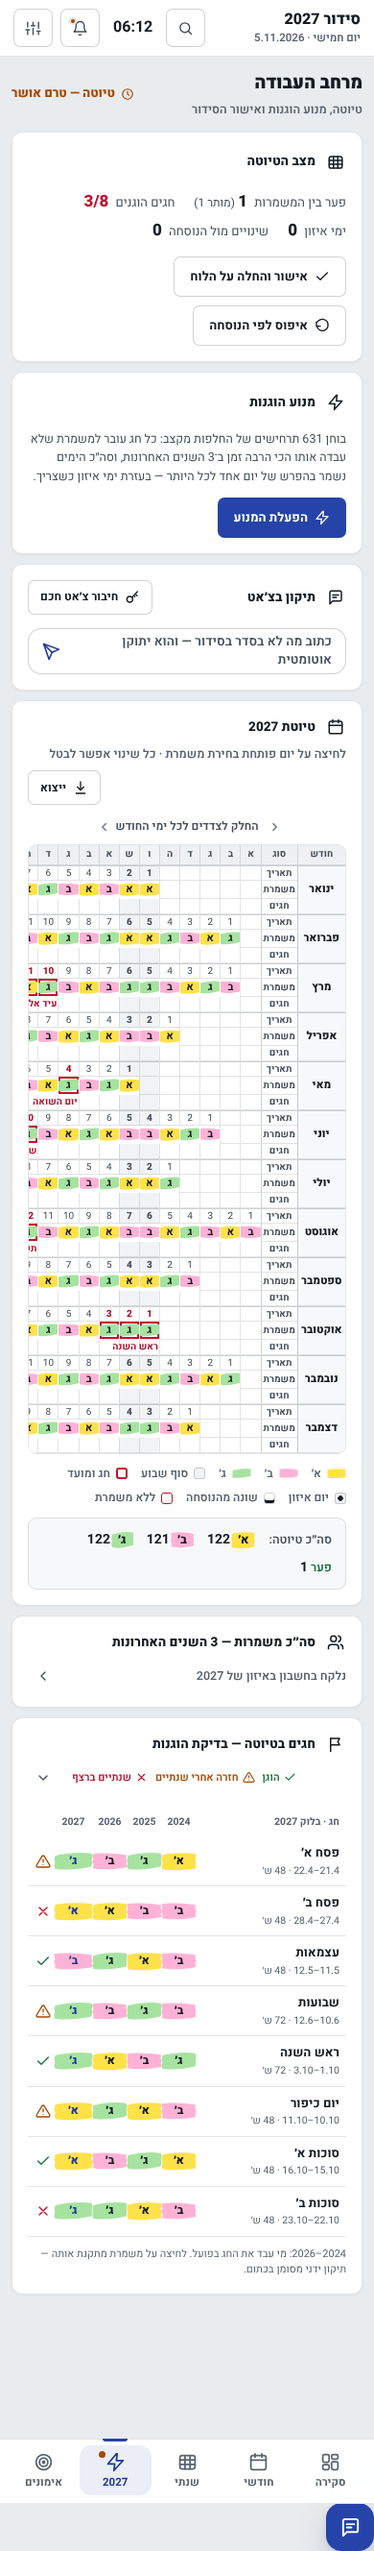
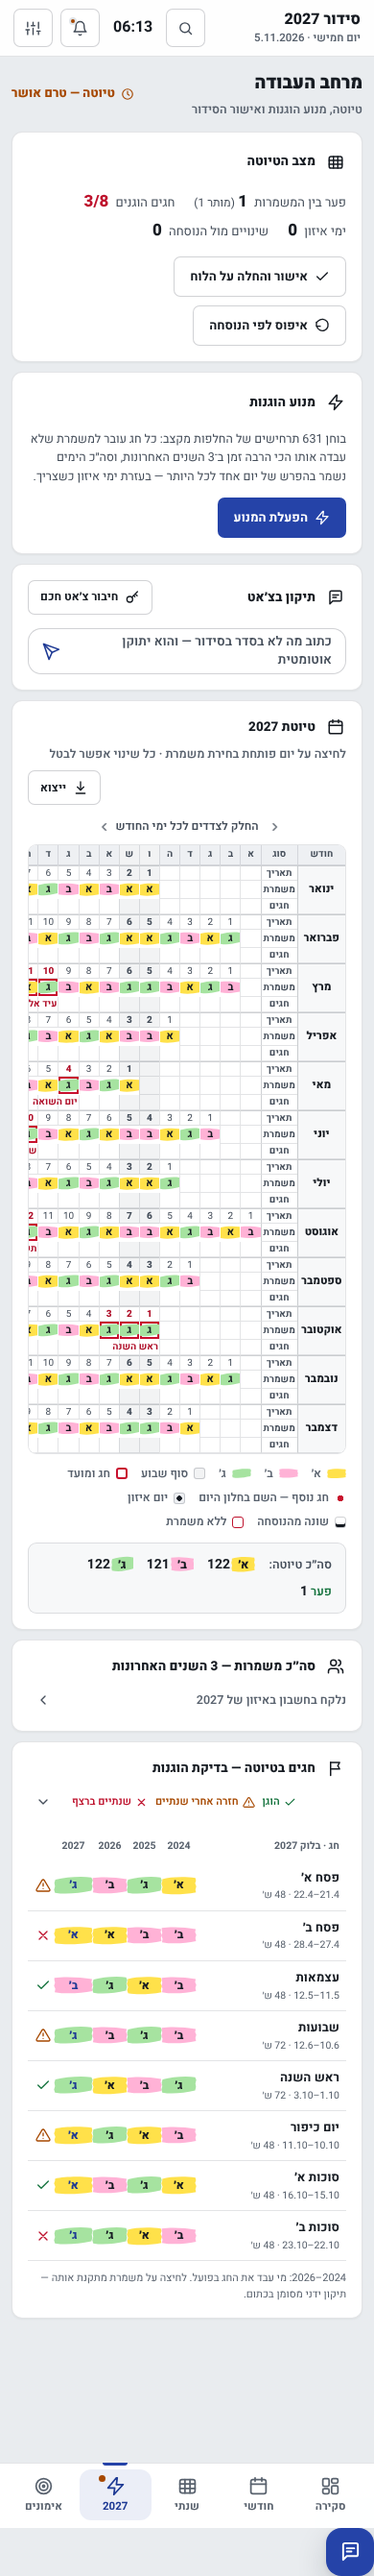
לילה: דיו כהה על המרקר בשורות החגים; הנקודה האדומה במקרא
Claude-Session: https://claude.ai/code/session_01VDLQJcN6K5eXoTaDqsaUC6

Changed region(s): [[0.0615, 0.0312, 0.9231, 0.9062], [0.9231, 0.9688, 0.9538, 1.0], [0.4, 0.0625, 0.4308, 0.0938]]

diff --git a/index.html b/index.html
@@ -1034,6 +1034,8 @@ input,textarea{caret-color:var(--olive)}
 .ym .yl.yd1::after{content:'';position:absolute;top:4px;inset-inline-start:calc(50% - 3px);width:6px;height:6px;border-radius:50%;background:currentColor}
 .ev-r small{display:block;font-size:12px;color:var(--muted);margin-top:2px}
 .kpi-f{flex-wrap:wrap;gap:4px 10px}
+.mkw.mk,.ev-r .mkw{color:var(--mk-ink)}
+.legend i.lg-dot{border:0;background:radial-gradient(circle,var(--hol) 0 3px,transparent 3.5px)}
 /* כרטיס מתקפל */
 .fold>summary{list-style:none;cursor:pointer;margin-bottom:0}
 .fold>summary::-webkit-details-marker{display:none}
@@ -2724,7 +2726,7 @@ function renderYear(){
   v.innerHTML=`<div class="ph"><div><h1>שנת ${y}</h1></div><div class="nav-grp">${badge}<button class="btn btn-gh btn-sm" data-act="export-year">${ico('i-download')}ייצוא</button><button class="nb" data-ynav="-1" ${y<=MIN_YEAR?'disabled':''} aria-label="השנה הקודמת">${ico('i-chevr')}</button><button class="nb" data-ynav="1" ${y>=MAX_YEAR?'disabled':''} aria-label="השנה הבאה">${ico('i-chevl')}</button></div></div>
     <div class="hint">${ico('i-chevr')}<span>החלק לצדדים לכל ימי החודש</span>${ico('i-chevl')}</div>
     <div class="mx"><table class="ym"><thead>${tableHead(cols)}</thead><tbody>${body}</tbody></table></div>
-    <div class="legend"><span><i class="lg-a"></i>א׳</span><span><i class="lg-b"></i>ב׳</span><span><i class="lg-c"></i>ג׳</span><span><i style="background:var(--wkd-bg)"></i>סוף שבוע</span><span><i style="border:2px solid var(--hol)"></i>חג ומועד</span>${balM.size?'<span><i class="lg-bal"></i>יום איזון</span>':''}<span><i style="border-color:var(--indigo)"></i>אימון</span><span><i style="border-color:var(--text);border-width:2px"></i>היום</span></div>
+    <div class="legend"><span><i class="lg-a"></i>א׳</span><span><i class="lg-b"></i>ב׳</span><span><i class="lg-c"></i>ג׳</span><span><i style="background:var(--wkd-bg)"></i>סוף שבוע</span><span><i style="border:2px solid var(--hol)"></i>חג ומועד</span><span><i class="lg-dot"></i>חג נוסף — השם בחלון היום</span>${balM.size?'<span><i class="lg-bal"></i>יום איזון</span>':''}<span><i style="border-color:var(--indigo)"></i>אימון</span><span><i style="border-color:var(--text);border-width:2px"></i>היום</span></div>
     <div class="gt"><span>סה״כ ${y}:</span><span>${mkw('א׳')} <b>${tot['א׳']}</b></span><span>${mkw('ב׳')} <b>${tot['ב׳']}</b></span><span>${mkw('ג׳')} <b>${tot['ג׳']}</b></span><span class="${sp>1?'st-bad':'st-ok'}">פער <b>${sp}</b></span><span>סך הכל <b>${sum}</b> ימים</span></div>
     <div class="gt gt2"><span>סופי שבוע ${y}:</span><span>${mkw('א׳')} <b>${wc[0]}</b></span><span>${mkw('ב׳')} <b>${wc[1]}</b></span><span>${mkw('ג׳')} <b>${wc[2]}</b></span><span class="${wsp>1?'st-bad':'st-ok'}">פער <b>${wsp}</b></span><span class="${wn?'st-warn':'st-ok'}"${wn?` title="${esc(wi.consec.map(c=>wkConsecText(y,c)).join(' · '))}"`:''}>${wn?(wn===1?'סוף שבוע אחד ברצף':wn+' סופי שבוע ברצף'):'בלי סוף שבוע ברצף'}</span></div>`;
 }
@@ -2864,7 +2866,7 @@ function renderNext(keep){
   h+=`<div class="card c-12"><div class="ch"><span class="ibox olive">${ico('i-cal')}</span><h3>טיוטת ${TARGET_YEAR}</h3><span class="meta">לחיצה על יום פותחת בחירת משמרת · כל שינוי אפשר לבטל</span><div class="end"><button class="btn btn-gh btn-sm" data-act="export-draft">${ico('i-download')}ייצוא</button></div></div>
     <div class="hint">${ico('i-chevr')}<span>החלק לצדדים לכל ימי החודש</span>${ico('i-chevl')}</div>
     <div class="mx" id="dwScroll"><table class="ym"><thead>${tableHead(cols)}</thead><tbody>${body}</tbody></table></div>
-    <div class="legend"><span><i class="lg-a"></i>א׳</span><span><i class="lg-b"></i>ב׳</span><span><i class="lg-c"></i>ג׳</span><span><i style="background:var(--wkd-bg)"></i>סוף שבוע</span><span><i style="border:2px solid var(--hol)"></i>חג ומועד</span><span><i class="lg-bal"></i>יום איזון</span><span><i style="border-color:var(--border2);box-shadow:inset 0 -3px 0 var(--text)"></i>שונה מהנוסחה</span><span><i style="border:1.5px solid var(--red)"></i>ללא משמרת</span></div>
+    <div class="legend"><span><i class="lg-a"></i>א׳</span><span><i class="lg-b"></i>ב׳</span><span><i class="lg-c"></i>ג׳</span><span><i style="background:var(--wkd-bg)"></i>סוף שבוע</span><span><i style="border:2px solid var(--hol)"></i>חג ומועד</span><span><i class="lg-dot"></i>חג נוסף — השם בחלון היום</span><span><i class="lg-bal"></i>יום איזון</span><span><i style="border-color:var(--border2);box-shadow:inset 0 -3px 0 var(--text)"></i>שונה מהנוסחה</span><span><i style="border:1.5px solid var(--red)"></i>ללא משמרת</span></div>
     <div class="gt"><span>סה״כ טיוטה:</span><span>${mkw('א׳')} <b>${tot['א׳']}</b></span><span>${mkw('ב׳')} <b>${tot['ב׳']}</b></span><span>${mkw('ג׳')} <b>${tot['ג׳']}</b></span><span class="${sp>1?'st-bad':'st-ok'}">פער <b>${sp}</b>${sp>1?' — מעל המותר':''}</span></div></div>`;
   h+=foldCard(totalsCard(ds),false);
   h+=foldCard(`<div class="card c-12"><div class="ch"><span class="ibox gold">${ico('i-flag')}</span><h3>חגים בטיוטה — בדיקת הוגנות</h3><div class="end leg-in"><span class="st-ok">${ico('i-check')}הוגן</span><span class="st-warn">${ico('i-alert')}חזרה אחרי שנתיים</span><span class="st-bad">${ico('i-x')}שנתיים ברצף</span></div></div>

diff --git a/src/sidur.src.html b/src/sidur.src.html
@@ -1180,6 +1180,8 @@ input,textarea{caret-color:var(--olive)}
 .ym .yl.yd1::after{content:'';position:absolute;top:4px;inset-inline-start:calc(50% - 3px);width:6px;height:6px;border-radius:50%;background:currentColor}
 .ev-r small{display:block;font-size:12px;color:var(--muted);margin-top:2px}
 .kpi-f{flex-wrap:wrap;gap:4px 10px}
+.mkw.mk,.ev-r .mkw{color:var(--mk-ink)}
+.legend i.lg-dot{border:0;background:radial-gradient(circle,var(--hol) 0 3px,transparent 3.5px)}
 /* כרטיס מתקפל */
 .fold>summary{list-style:none;cursor:pointer;margin-bottom:0}
 .fold>summary::-webkit-details-marker{display:none}
@@ -2924,7 +2926,7 @@ function renderYear(){
   v.innerHTML=`<div class="ph"><div><h1>שנת ${y}</h1></div><div class="nav-grp">${badge}<button class="btn btn-gh btn-sm" data-act="export-year">${ico('i-download')}ייצוא</button><button class="nb" data-ynav="-1" ${y<=MIN_YEAR?'disabled':''} aria-label="השנה הקודמת">${ico('i-chevr')}</button><button class="nb" data-ynav="1" ${y>=MAX_YEAR?'disabled':''} aria-label="השנה הבאה">${ico('i-chevl')}</button></div></div>
     <div class="hint">${ico('i-chevr')}<span>החלק לצדדים לכל ימי החודש</span>${ico('i-chevl')}</div>
     <div class="mx"><table class="ym"><thead>${tableHead(cols)}</thead><tbody>${body}</tbody></table></div>
-    <div class="legend"><span><i class="lg-a"></i>א׳</span><span><i class="lg-b"></i>ב׳</span><span><i class="lg-c"></i>ג׳</span><span><i style="background:var(--wkd-bg)"></i>סוף שבוע</span><span><i style="border:2px solid var(--hol)"></i>חג ומועד</span>${balM.size?'<span><i class="lg-bal"></i>יום איזון</span>':''}<span><i style="border-color:var(--indigo)"></i>אימון</span><span><i style="border-color:var(--text);border-width:2px"></i>היום</span></div>
+    <div class="legend"><span><i class="lg-a"></i>א׳</span><span><i class="lg-b"></i>ב׳</span><span><i class="lg-c"></i>ג׳</span><span><i style="background:var(--wkd-bg)"></i>סוף שבוע</span><span><i style="border:2px solid var(--hol)"></i>חג ומועד</span><span><i class="lg-dot"></i>חג נוסף — השם בחלון היום</span>${balM.size?'<span><i class="lg-bal"></i>יום איזון</span>':''}<span><i style="border-color:var(--indigo)"></i>אימון</span><span><i style="border-color:var(--text);border-width:2px"></i>היום</span></div>
     <div class="gt"><span>סה״כ ${y}:</span><span>${mkw('א׳')} <b>${tot['א׳']}</b></span><span>${mkw('ב׳')} <b>${tot['ב׳']}</b></span><span>${mkw('ג׳')} <b>${tot['ג׳']}</b></span><span class="${sp>1?'st-bad':'st-ok'}">פער <b>${sp}</b></span><span>סך הכל <b>${sum}</b> ימים</span></div>
     <div class="gt gt2"><span>סופי שבוע ${y}:</span><span>${mkw('א׳')} <b>${wc[0]}</b></span><span>${mkw('ב׳')} <b>${wc[1]}</b></span><span>${mkw('ג׳')} <b>${wc[2]}</b></span><span class="${wsp>1?'st-bad':'st-ok'}">פער <b>${wsp}</b></span><span class="${wn?'st-warn':'st-ok'}"${wn?` title="${esc(wi.consec.map(c=>wkConsecText(y,c)).join(' · '))}"`:''}>${wn?(wn===1?'סוף שבוע אחד ברצף':wn+' סופי שבוע ברצף'):'בלי סוף שבוע ברצף'}</span></div>`;
 }
@@ -3064,7 +3066,7 @@ function renderNext(keep){
   h+=`<div class="card c-12"><div class="ch"><span class="ibox olive">${ico('i-cal')}</span><h3>טיוטת ${TARGET_YEAR}</h3><span class="meta">לחיצה על יום פותחת בחירת משמרת · כל שינוי אפשר לבטל</span><div class="end"><button class="btn btn-gh btn-sm" data-act="export-draft">${ico('i-download')}ייצוא</button></div></div>
     <div class="hint">${ico('i-chevr')}<span>החלק לצדדים לכל ימי החודש</span>${ico('i-chevl')}</div>
     <div class="mx" id="dwScroll"><table class="ym"><thead>${tableHead(cols)}</thead><tbody>${body}</tbody></table></div>
-    <div class="legend"><span><i class="lg-a"></i>א׳</span><span><i class="lg-b"></i>ב׳</span><span><i class="lg-c"></i>ג׳</span><span><i style="background:var(--wkd-bg)"></i>סוף שבוע</span><span><i style="border:2px solid var(--hol)"></i>חג ומועד</span><span><i class="lg-bal"></i>יום איזון</span><span><i style="border-color:var(--border2);box-shadow:inset 0 -3px 0 var(--text)"></i>שונה מהנוסחה</span><span><i style="border:1.5px solid var(--red)"></i>ללא משמרת</span></div>
+    <div class="legend"><span><i class="lg-a"></i>א׳</span><span><i class="lg-b"></i>ב׳</span><span><i class="lg-c"></i>ג׳</span><span><i style="background:var(--wkd-bg)"></i>סוף שבוע</span><span><i style="border:2px solid var(--hol)"></i>חג ומועד</span><span><i class="lg-dot"></i>חג נוסף — השם בחלון היום</span><span><i class="lg-bal"></i>יום איזון</span><span><i style="border-color:var(--border2);box-shadow:inset 0 -3px 0 var(--text)"></i>שונה מהנוסחה</span><span><i style="border:1.5px solid var(--red)"></i>ללא משמרת</span></div>
     <div class="gt"><span>סה״כ טיוטה:</span><span>${mkw('א׳')} <b>${tot['א׳']}</b></span><span>${mkw('ב׳')} <b>${tot['ב׳']}</b></span><span>${mkw('ג׳')} <b>${tot['ג׳']}</b></span><span class="${sp>1?'st-bad':'st-ok'}">פער <b>${sp}</b>${sp>1?' — מעל המותר':''}</span></div></div>`;
   h+=foldCard(totalsCard(ds),false);
   h+=foldCard(`<div class="card c-12"><div class="ch"><span class="ibox gold">${ico('i-flag')}</span><h3>חגים בטיוטה — בדיקת הוגנות</h3><div class="end leg-in"><span class="st-ok">${ico('i-check')}הוגן</span><span class="st-warn">${ico('i-alert')}חזרה אחרי שנתיים</span><span class="st-bad">${ico('i-x')}שנתיים ברצף</span></div></div>

diff --git a/mefakdim/index.html b/mefakdim/index.html
@@ -1166,6 +1166,8 @@ input,textarea{caret-color:var(--olive)}
 .ym .yl.yd1::after{content:'';position:absolute;top:4px;inset-inline-start:calc(50% - 3px);width:6px;height:6px;border-radius:50%;background:currentColor}
 .ev-r small{display:block;font-size:12px;color:var(--muted);margin-top:2px}
 .kpi-f{flex-wrap:wrap;gap:4px 10px}
+.mkw.mk,.ev-r .mkw{color:var(--mk-ink)}
+.legend i.lg-dot{border:0;background:radial-gradient(circle,var(--hol) 0 3px,transparent 3.5px)}
 /* כרטיס מתקפל */
 .fold>summary{list-style:none;cursor:pointer;margin-bottom:0}
 .fold>summary::-webkit-details-marker{display:none}
@@ -2650,7 +2652,7 @@ function renderYear(){
   v.innerHTML=`<div class="ph"><div><h1>שנת ${y}</h1></div><div class="nav-grp">${badge}<button class="btn btn-gh btn-sm" data-act="export-year">${ico('i-download')}ייצוא</button><button class="nb" data-ynav="-1" ${y<=MIN_YEAR?'disabled':''} aria-label="השנה הקודמת">${ico('i-chevr')}</button><button class="nb" data-ynav="1" ${y>=MAX_YEAR?'disabled':''} aria-label="השנה הבאה">${ico('i-chevl')}</button></div></div>
     <div class="hint">${ico('i-chevr')}<span>החלק לצדדים לכל ימי החודש</span>${ico('i-chevl')}</div>
     <div class="mx"><table class="ym"><thead>${tableHead(cols)}</thead><tbody>${body}</tbody></table></div>
-    <div class="legend"><span><i class="lg-a"></i>א׳</span><span><i class="lg-b"></i>ב׳</span><span><i class="lg-c"></i>ג׳</span><span><i style="background:var(--wkd-bg)"></i>סוף שבוע</span><span><i style="border:2px solid var(--hol)"></i>חג ומועד</span>${balM.size?'<span><i class="lg-bal"></i>יום איזון</span>':''}<span><i style="border-color:var(--indigo)"></i>אימון</span><span><i style="border-color:var(--text);border-width:2px"></i>היום</span></div>
+    <div class="legend"><span><i class="lg-a"></i>א׳</span><span><i class="lg-b"></i>ב׳</span><span><i class="lg-c"></i>ג׳</span><span><i style="background:var(--wkd-bg)"></i>סוף שבוע</span><span><i style="border:2px solid var(--hol)"></i>חג ומועד</span><span><i class="lg-dot"></i>חג נוסף — השם בחלון היום</span>${balM.size?'<span><i class="lg-bal"></i>יום איזון</span>':''}<span><i style="border-color:var(--indigo)"></i>אימון</span><span><i style="border-color:var(--text);border-width:2px"></i>היום</span></div>
     <div class="gt"><span>סה״כ ${y}:</span><span>${mkw('א׳')} <b>${tot['א׳']}</b></span><span>${mkw('ב׳')} <b>${tot['ב׳']}</b></span><span>${mkw('ג׳')} <b>${tot['ג׳']}</b></span><span class="${sp>1?'st-bad':'st-ok'}">פער <b>${sp}</b></span><span>סך הכל <b>${sum}</b> ימים</span></div>
     <div class="gt gt2"><span>סופי שבוע ${y}:</span><span>${mkw('א׳')} <b>${wc[0]}</b></span><span>${mkw('ב׳')} <b>${wc[1]}</b></span><span>${mkw('ג׳')} <b>${wc[2]}</b></span><span class="${wsp>1?'st-bad':'st-ok'}">פער <b>${wsp}</b></span><span class="${wn?'st-warn':'st-ok'}"${wn?` title="${esc(wi.consec.map(c=>wkConsecText(y,c)).join(' · '))}"`:''}>${wn?(wn===1?'סוף שבוע אחד ברצף':wn+' סופי שבוע ברצף'):'בלי סוף שבוע ברצף'}</span></div>`;
 }
